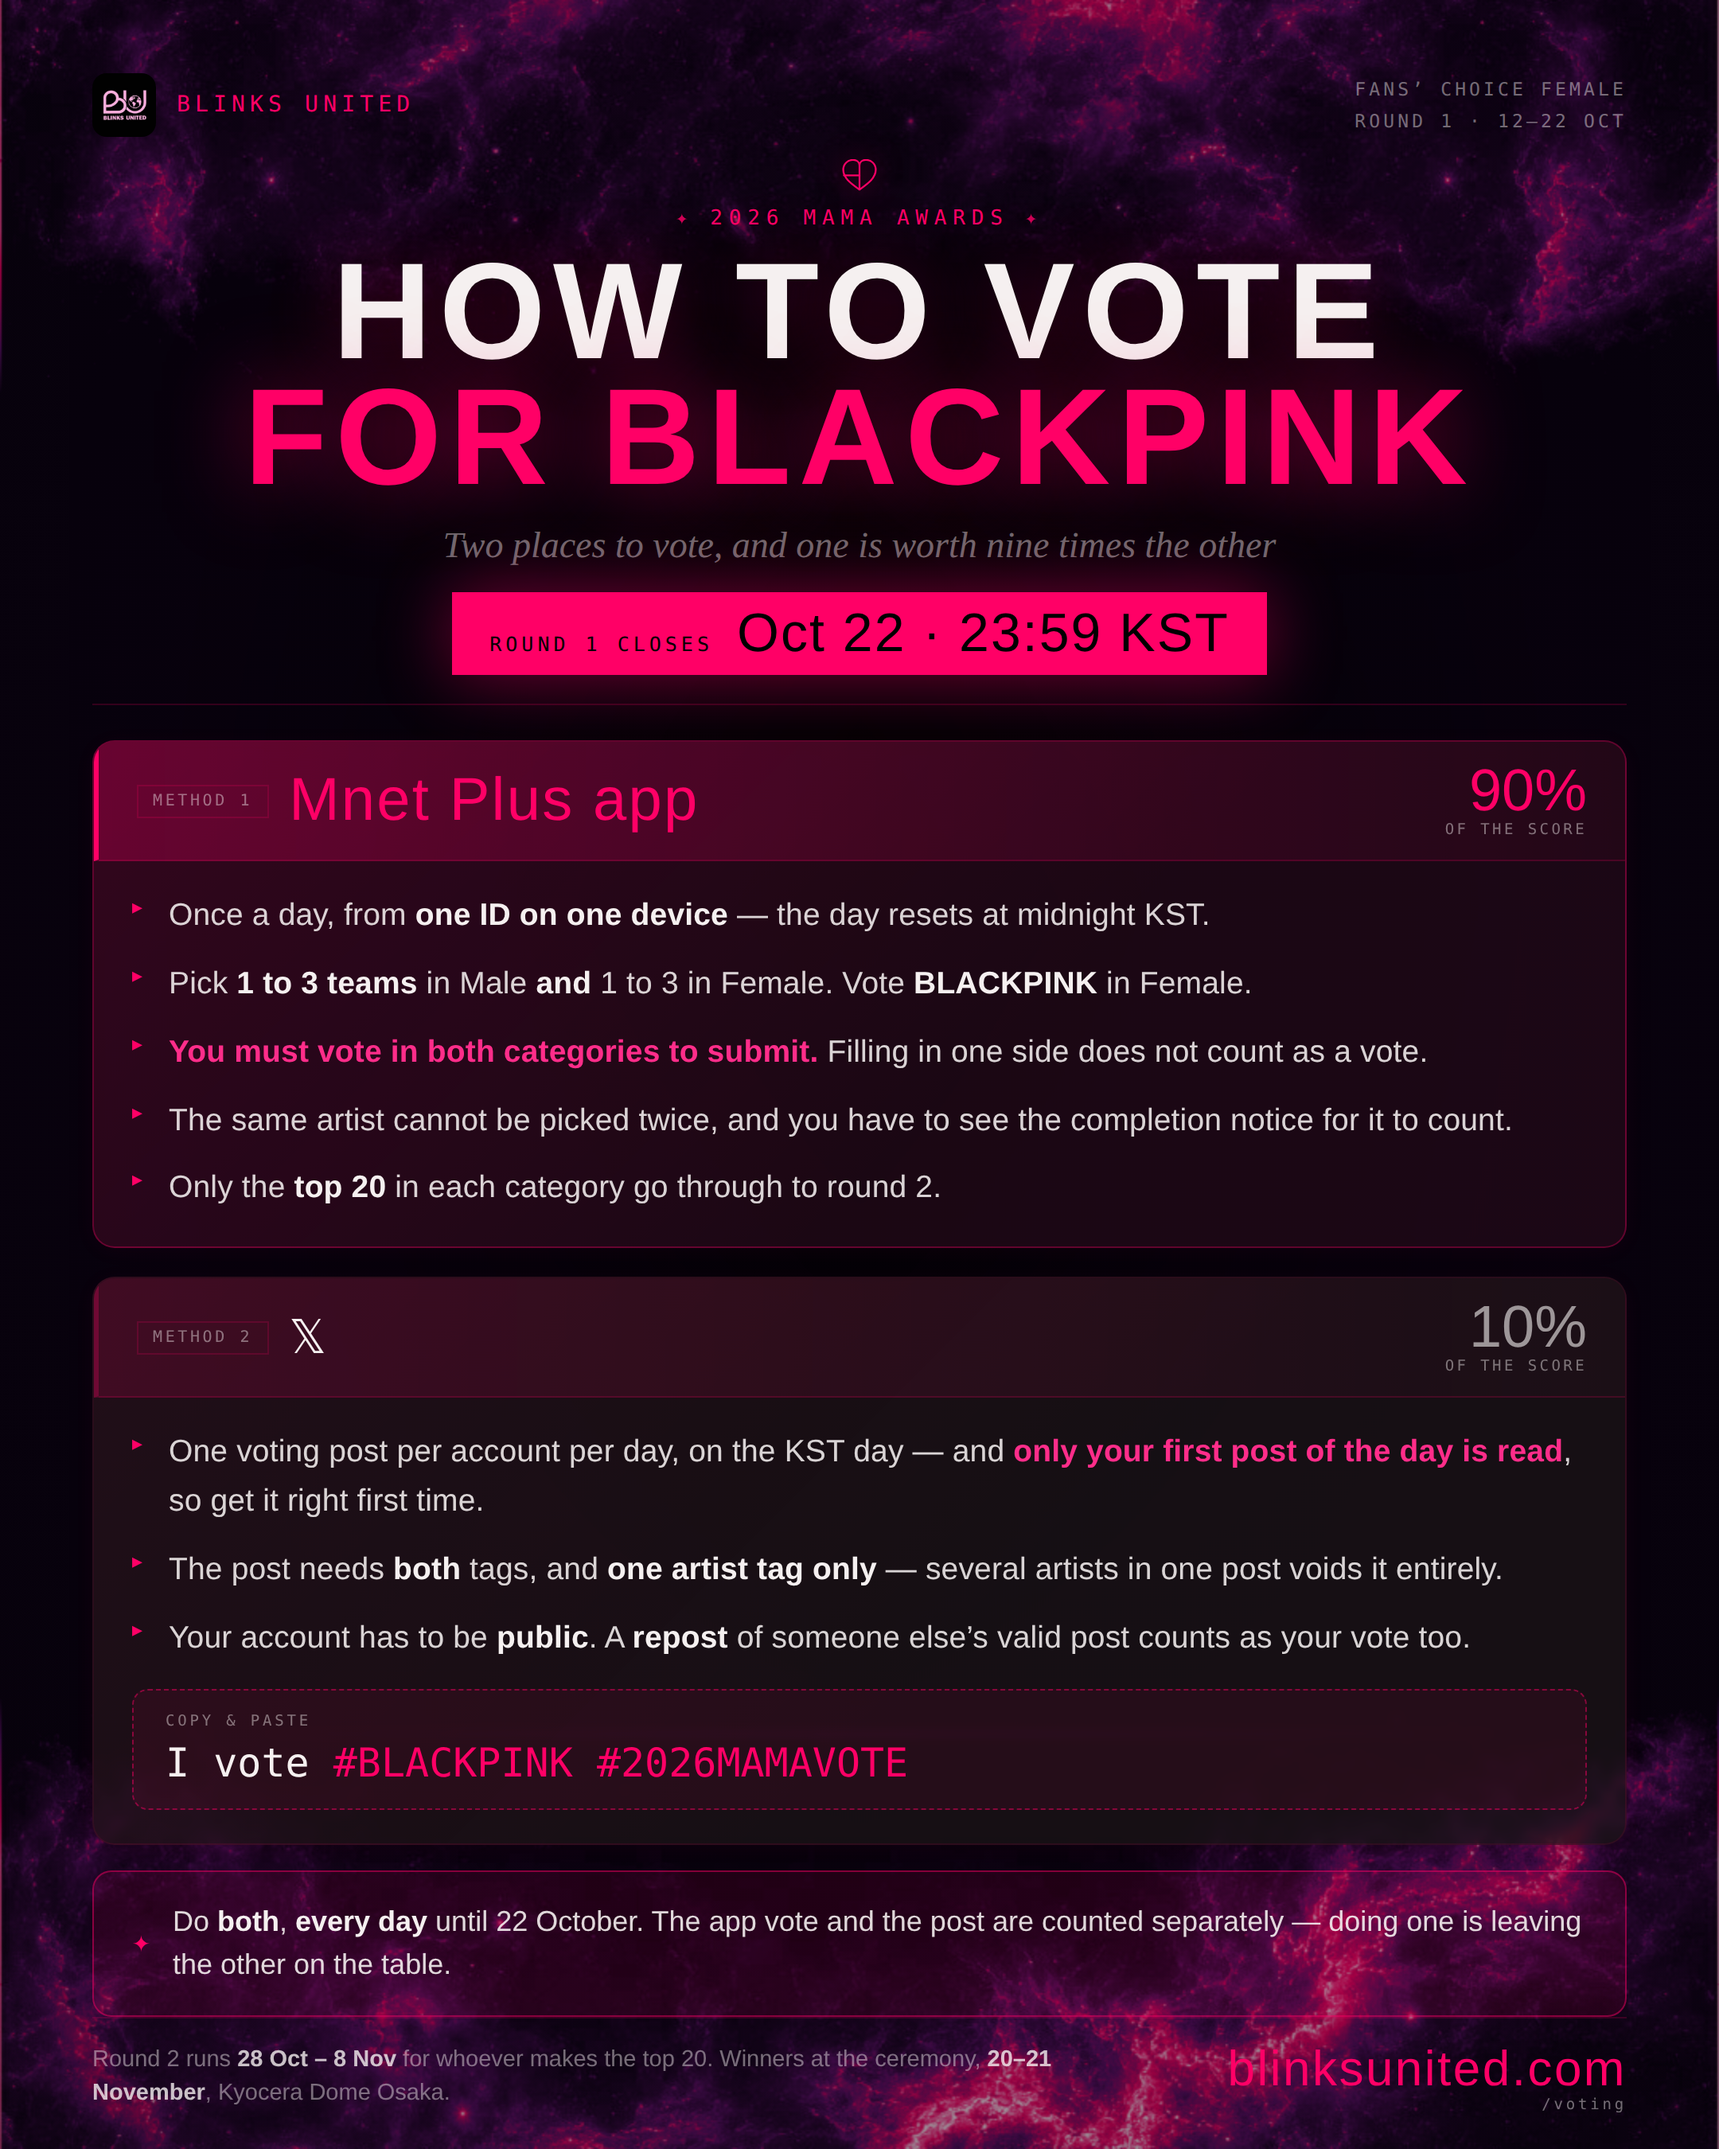
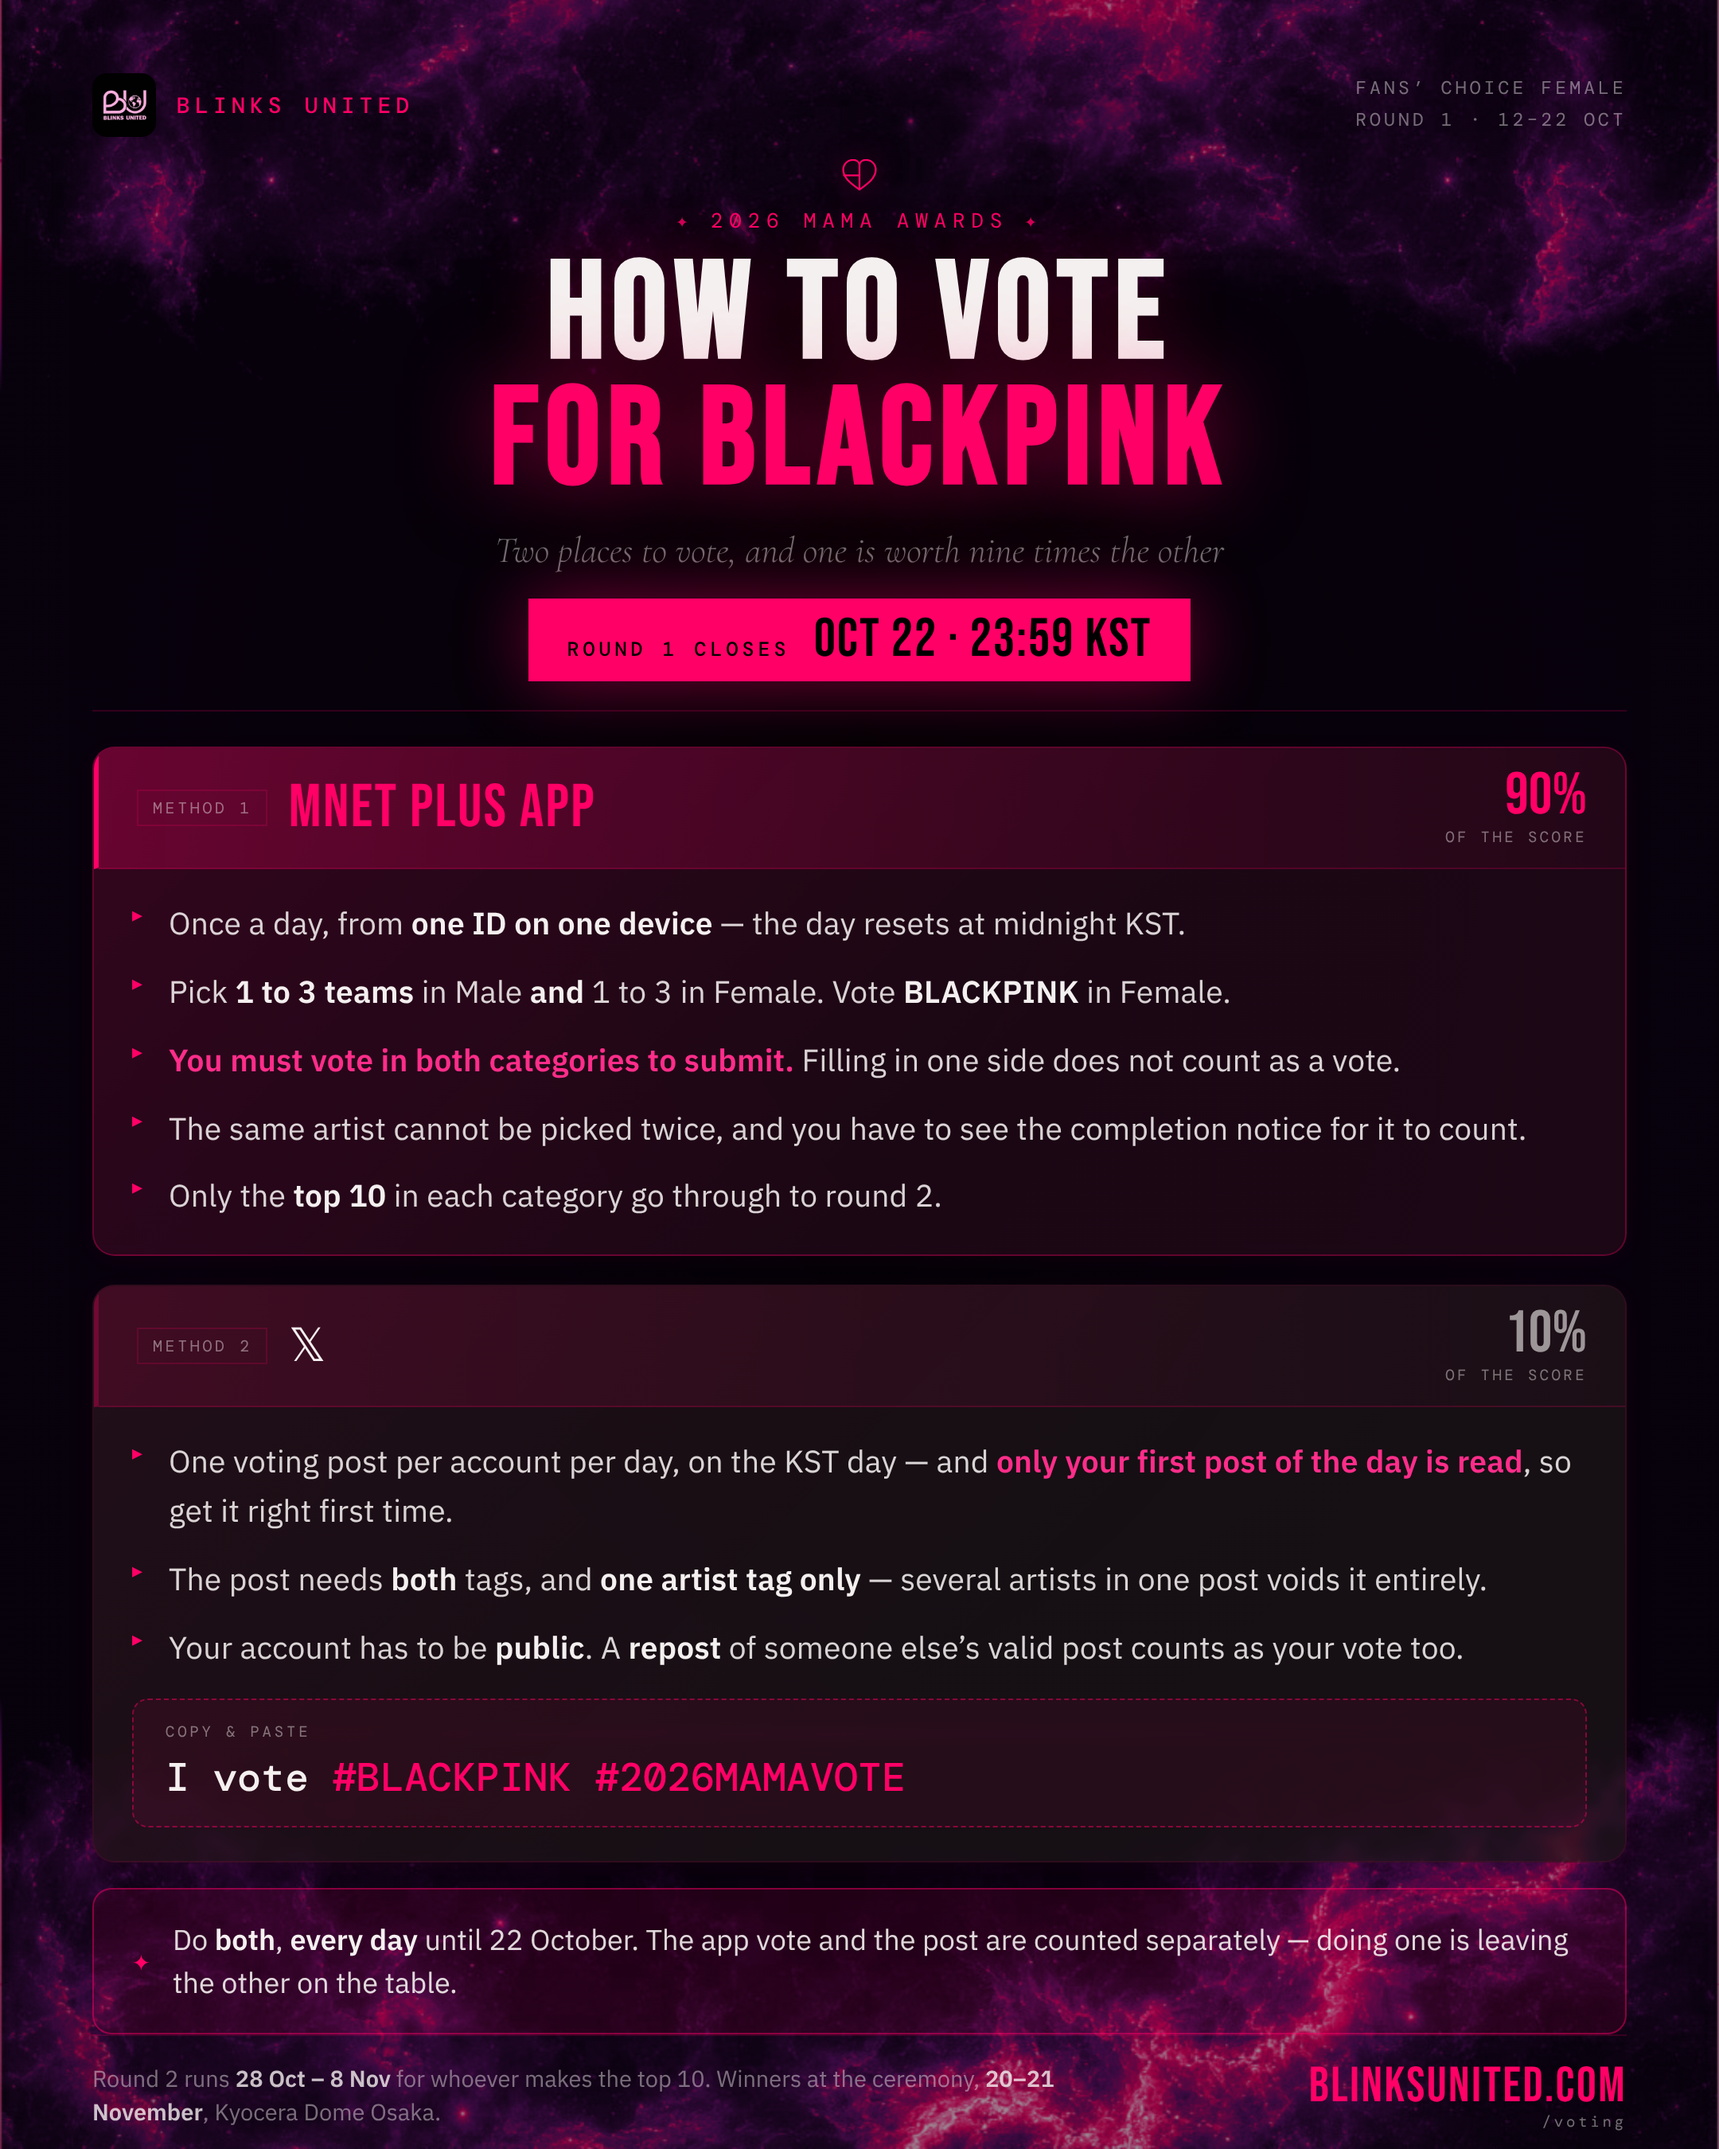
The advancement cut is ten, not twenty
Mnet changed it. Four hand-written copies said twenty: two sentences on
the site, two on the poster, none derived from the others — and the
poster is the one people download and post, where a missed correction
outlives it. The PNG is re-rendered.

A check now requires the four to agree. Not against a number written in
the test, which would be a fifth copy to go stale: it pulls every
statement of the cut out of both files and requires them to say the same
thing.

Scoped to MAMA's own phrasing, because a looser pattern caught
BreakTudo's "Top 20 advance to the next round" — a different award with
its own cut, and not a disagreement at all. What keeps that narrowing
honest is the count: it expects exactly four, so rewording one until it
no longer matches fails rather than quietly passing on the three that
still do. Mutation-checked both ways.

Claude-Session: https://claude.ai/code/session_01HPbAAWRiDyNszfqpAtqo9o

diff --git a/index.html b/index.html
@@ -10008,7 +10008,7 @@ const VOTE_CAMPAIGNS = [
       '<b>Mnet Plus app — 90%.</b> Once a day from one ID on one device. Pick <b>1 to 3 teams</b> in Male <i>and</i> 1 to 3 in Female; the same artist cannot be picked twice, and nothing submits until both sides are filled in',
       '<b>X — 10%.</b> One post a day carrying <b>#2026MAMAVOTE</b> and <b>#BLACKPINK</b>. Only your <b>first</b> voting post of the day is read, so get it right first time — a repost of someone else’s valid post counts just the same',
       'Your X account has to be <b>public</b>, and a post naming several artists is <b>not counted at all</b>',
-      '<b>Round 1</b> 12 Oct 19:00 – 22 Oct 23:59 KST — the <b>top 20</b> go through. <b>Round 2</b> 28 Oct 18:00 – 8 Nov 23:59 KST',
+      '<b>Round 1</b> 12 Oct 19:00 – 22 Oct 23:59 KST — the <b>top 10</b> go through. <b>Round 2</b> 28 Oct 18:00 – 8 Nov 23:59 KST',
       'Winners at the ceremony, <b>20–21 Nov</b>, Kyocera Dome Osaka',
       '<a href="/voting?award=mama">Log your X vote on our board →</a> — it is the one award here we can count, because the X account is the vote',
     ],
@@ -11024,7 +11024,7 @@ const MAMA_RULES = [
     'The artist’s official hashtag is listed on the voting page in the <b>Mnet Plus app</b> — that is the same list the X rule above points at.',
   ]},
   { head: 'Dates', items: [
-    '<b>Round 1</b> 12 Oct 19:00 – 22 Oct 23:59 KST. The <b>top 20</b> go through.',
+    '<b>Round 1</b> 12 Oct 19:00 – 22 Oct 23:59 KST. The <b>top 10</b> go through.',
     '<b>Round 2</b> 28 Oct 18:00 – 8 Nov 23:59 KST.',
     'Winners announced at the ceremony, <b>20–21 November</b>, Kyocera Dome Osaka.',
   ]},

diff --git a/mama-guide.html b/mama-guide.html
@@ -305,7 +305,7 @@
           <li>Pick <b>1 to 3 teams</b> in Male <b>and</b> 1 to 3 in Female. Vote <b>BLACKPINK</b> in Female.</li>
           <li><span class="warn">You must vote in both categories to submit.</span> Filling in one side does not count as a vote.</li>
           <li>The same artist cannot be picked twice, and you have to see the completion notice for it to count.</li>
-          <li>Only the <b>top 20</b> in each category go through to round 2.</li>
+          <li>Only the <b>top 10</b> in each category go through to round 2.</li>
         </ul>
       </div>
     </div>
@@ -342,7 +342,7 @@
 
   <div class="foot">
     <div class="foot-note">
-      Round 2 runs <b>28 Oct – 8 Nov</b> for whoever makes the top 20. Winners at the ceremony,
+      Round 2 runs <b>28 Oct – 8 Nov</b> for whoever makes the top 10. Winners at the ceremony,
       <b>20–21 November</b>, Kyocera Dome Osaka.
     </div>
     <div class="foot-url">blinksunited.com<small>/voting</small></div>
